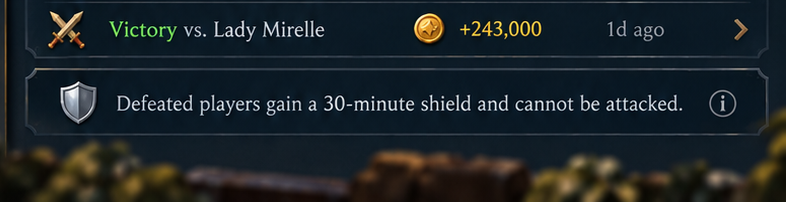
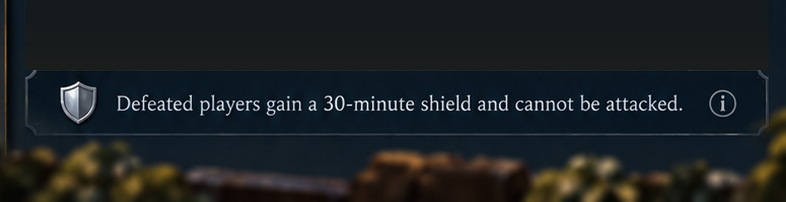
Fill a tall phone's screen: the rail to the foot, lists that grow, footers pinned
The design grid is 941x1672 and a 19.5:9 phone has 2040 units of height, so
every screen ended at 1672 and left a band of ground beneath: the rail
stopped short with ground under it, the Collect and Inventory lists ended
with room to spare, the footers hung in the middle of the screen.

The rail now spans the screen's height with its painted foot pinned to the
bottom; a top-level layout element may carry "grow": "bottom" (its top stays,
its bottom follows the screen's -- the job list and the item grid) or
"anchor": "bottom" (pinned to the foot -- the Inventory ground, the Shop
footer, the Army strip, the Attack notice bar and ground, the Kingdom
foliage). The Shop and Kingdom pages are at least screen-tall so their
pinned pieces reach the foot, and the toast hangs off the foot too. The
Attack ground strip had a battle-history row painted into it, hidden under
the history panel at the design height and exposed once pinned; the slicer
erases it. --capture-size 941x2040 renders a capture at a phone's canvas so
all of this can be looked at without a phone.

Claude-Session: https://claude.ai/code/session_018Vu32y5yYmazpwDoijR3mn

diff --git a/docs/FRONTEND.md b/docs/FRONTEND.md
@@ -136,6 +136,12 @@ no asset, an invisible tap target), `ninepatch`, `fill` (a bar clipped from the 
 `group`, `template` (repeated component;
 `instances` may be `[x, y]` or `{pos|at, assets, texts, rects, data}`).
 Top-level rects are absolute; part rects are relative to their template.
+A top-level element may carry `"anchor": "bottom"` (pinned to the foot of the
+screen the player has, which on a tall phone is below the design's 1672) or
+`"grow": "bottom"` (its top stays, its bottom follows the screen's -- for the
+scroll lists). The rail spans the full height, dialogs centre in the visible
+viewport, and the toast hangs off its foot. `--capture-size 941x2040` renders
+a capture at a 19.5:9 phone's canvas to check all of this.
 `Layout.build()` returns `{id: node}` for plain elements and
 `{id: [{node, parts}, ...]}` for templates with instances. A nested template with
 instances comes back as a wrapper whose meta `instances` lists them.
